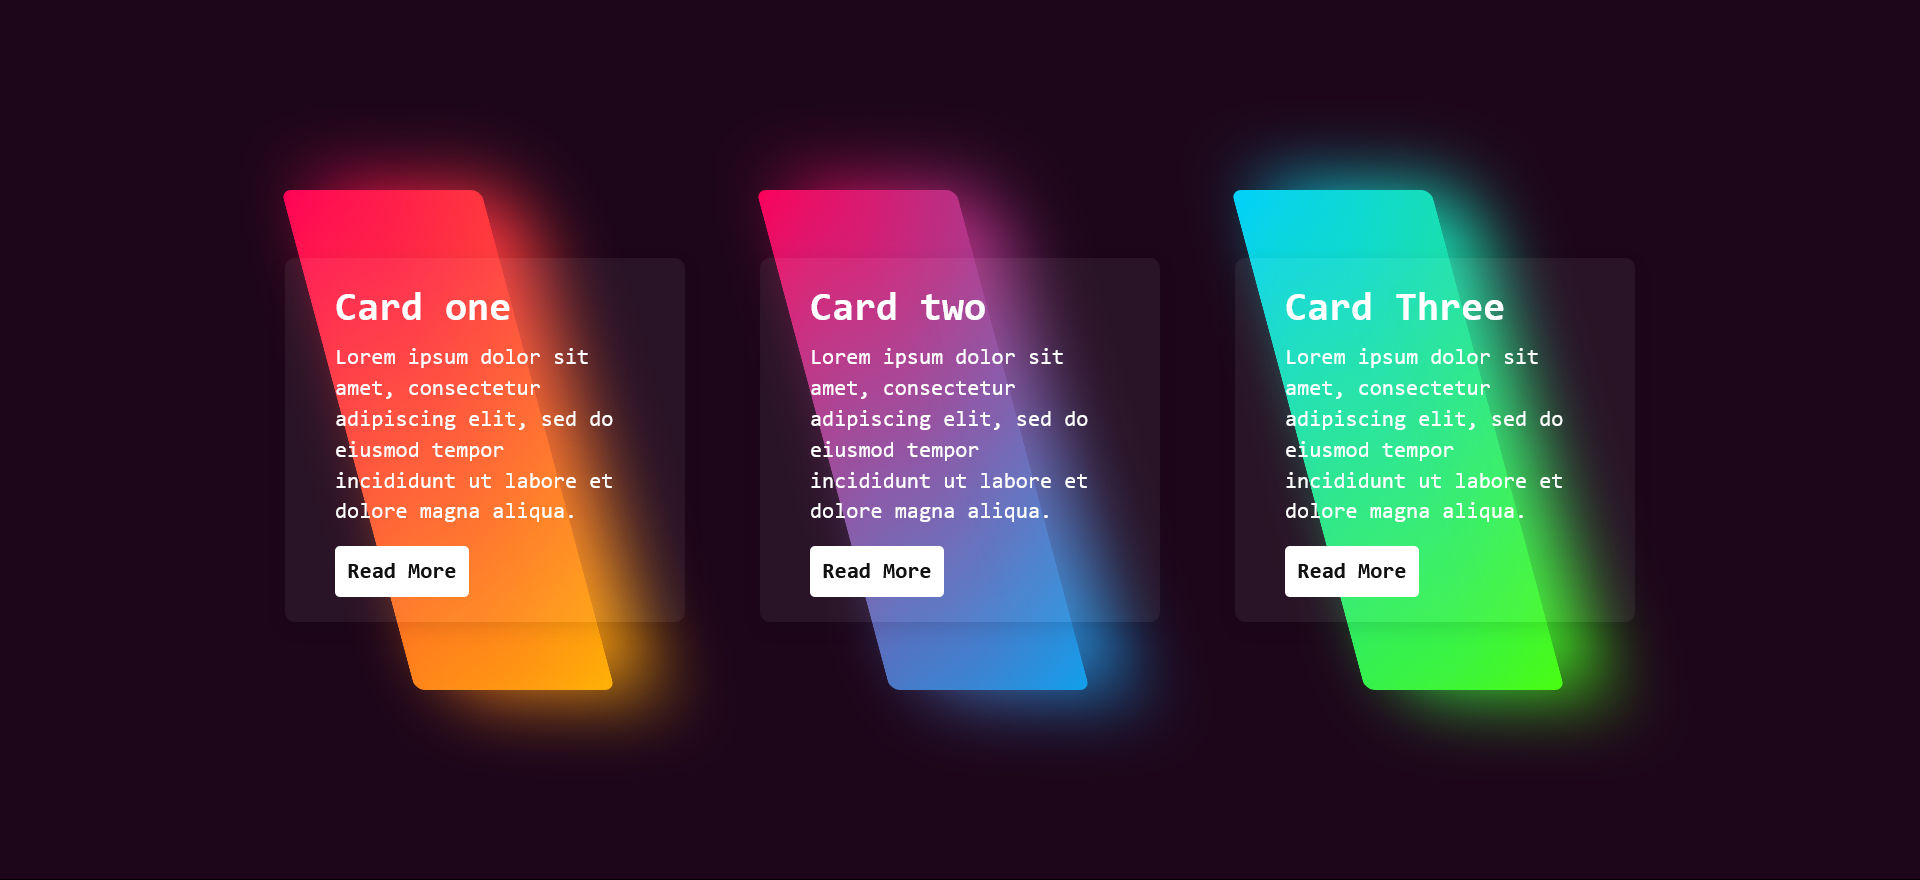
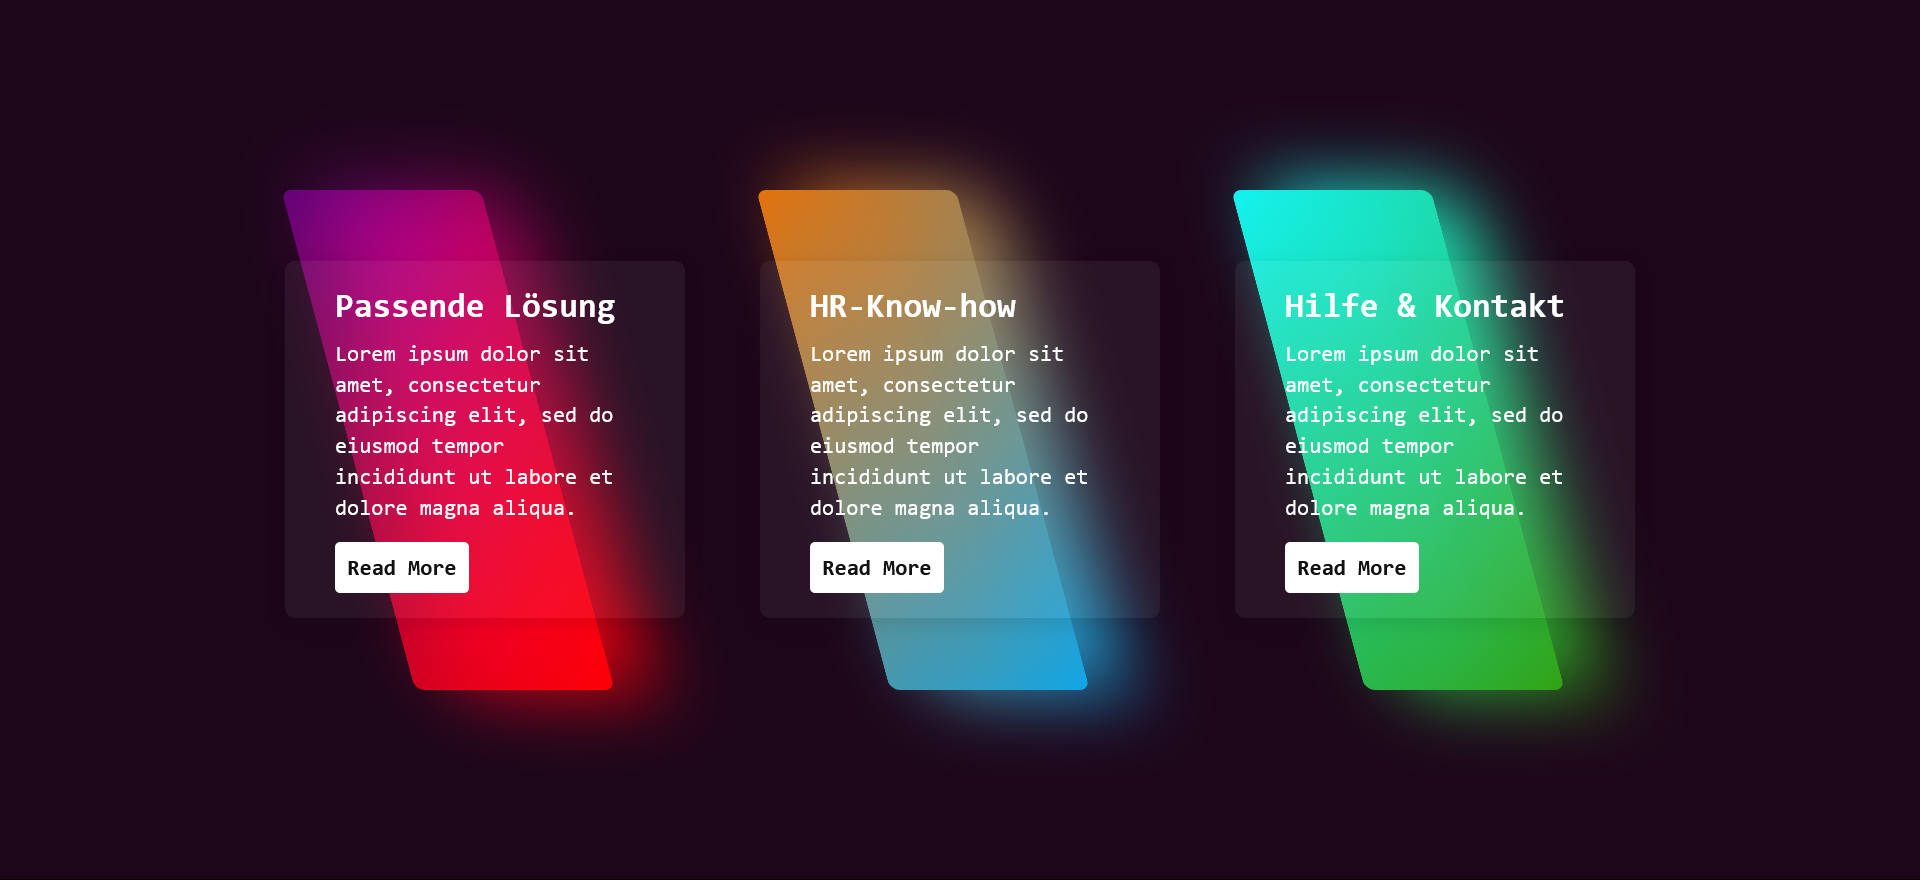
add screenshot

diff --git a/css/style.css b/css/style.css
@@ -90,7 +90,7 @@ body
 .container .box:nth-child(3):before,
 .container .box:nth-child(3):after
 {
-  background: linear-gradient(315deg, #4dff03, #00d0ff)
+    background: linear-gradient(315deg, #339e07, #13f4f4);
 }
 
 .container .box span
